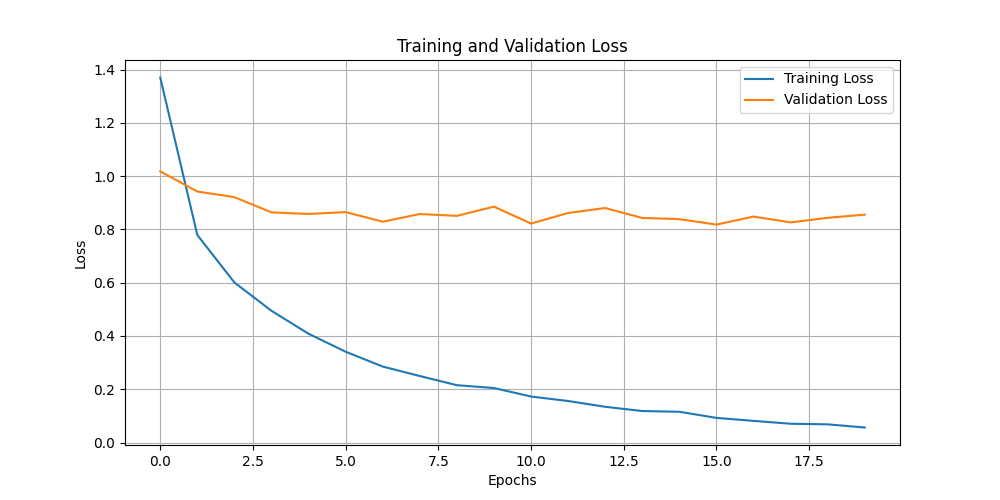
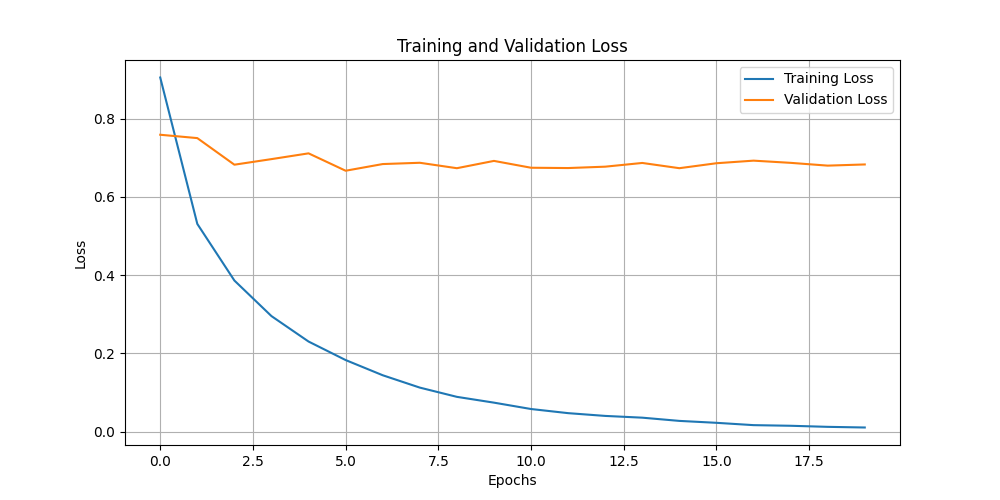
new

diff --git a/cs109b_llama_regression_head.py b/cs109b_llama_regression_head.py
@@ -60,11 +60,15 @@ class SentimentRegressionModel(keras.Model):
     def __init__(self):
         super(SentimentRegressionModel, self).__init__()
         self.dense1 = keras.layers.Dense(4096, activation='relu')
-        self.dense2 = keras.layers.Dense(1, activation='linear')
+        self.dense2 = keras.layers.Dense(500, activation='relu')
+        self.dense3 = keras.layers.Dense(200, activation='relu')
+        self.dense4 = keras.layers.Dense(1, activation='linear')
 
     def call(self, inputs):
         x = self.dense1(inputs)
-        outputs = self.dense2(x)
+        x = self.dense2(x)
+        x = self.dense3(x)
+        outputs = self.dense4(x)
         return outputs
 
 top_layers_array = np.vstack(top_layers)
